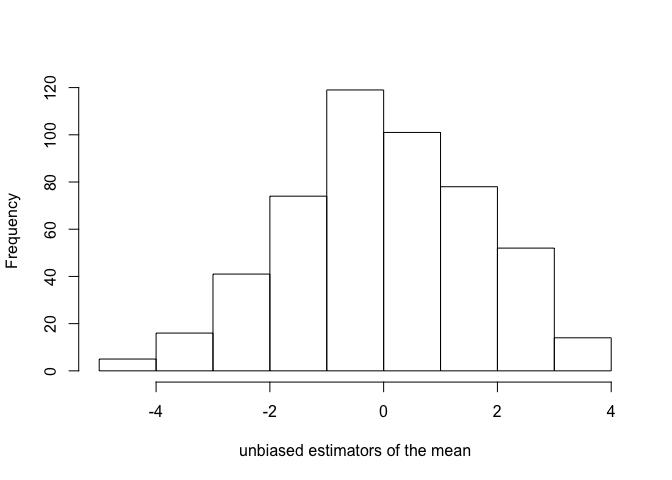
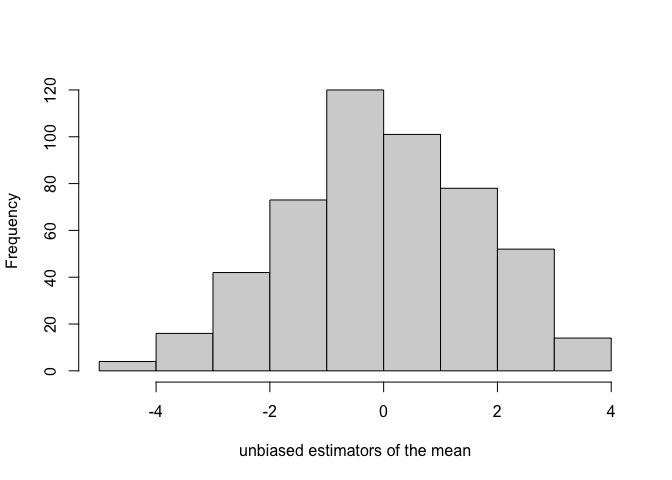
fixed weight in bias cancellation

diff --git a/src/c_chains_to_measure.cpp b/src/c_chains_to_measure.cpp
@@ -1,4 +1,5 @@
 #include <Rcpp.h>
+#include <math.h>
 using namespace Rcpp;
 
 // This function takes coupled chains, containing chains X (samples1) and Y (samples2)
@@ -18,15 +19,9 @@ using namespace Rcpp;
 // X_0,..., X_{max(m,tau)}  (of length 1+max(m, tau))
 // Y_0,..., Y_{max(m,tau)-lag} (of length 1+max(m, tau) - lag)
 
-// The signed measure approximation, for a lag of one is given by
+// The signed measure approximation, for a general lag, is given by
 // (MCMC):             (m-k+1)^{-1} \sum_{t=k}^m delta_{X_t}
-// (bias correction):  (m-k+1)^{-1} \sum_{t=k+1}^{tau-1} min(m-k+1, t-k) {delta_{X_t} - delta_{Y_{t-1}}}
-
-// For a general lag, it is given by
-// (MCMC):             (m-k+1)^{-1} \sum_{t=k}^m delta_{X_t}
-// (bias correction):  (m-k+1)^{-1} \sum_{t=k+lag}^{tau-1} min(m-k+1, ceil((t-k)/lag)) {delta_{X_t} - delta_{Y_{t-lag}}}
-
-// sanity check: it should be the same if lag = 1
+// (bias correction):  (m-k+1)^{-1} \sum_{t=k+lag}^{tau-1} (floor((t-k) / lag) - ceil(max(lag, t-m)/lag) + 1) {delta_{X_t} - delta_{Y_{t-lag}}}
 
 // Thus total number of atoms is
 // m-k+1                    from the MCMC approximation
@@ -73,10 +68,11 @@ List c_chains_to_measure_as_list_(const List & c_chains, int k, int m){
     for (int time = k+lag; time <= meetingtime-1; time ++){
       atoms(index,_) = samples1(time,_);
       atoms(index+1,_) = samples2(time-lag,_);
-      weights(index) = ceil(((double) time - k)/((double) lag));
-      if ((m - k + 1) < weights(index)){
-        weights(index) = m - k + 1;
-      }
+      // weights(index) = ceil(((double) time - k)/((double) lag));
+      //if ((m - k + 1) < weights(index)){
+      //  weights(index) = m - k + 1;
+      //}
+      weights(index) = floor(((double) time - k) / (double) lag) - ceil(std::max<double>(lag, (double) time - m)/ (double) lag) + 1.;
       weights(index) = weights(index) * eqweight;
       weights(index+1) = - weights(index);
       whichpart(index) = false;

diff --git a/src/estimator_bin.cpp b/src/estimator_bin.cpp
@@ -23,11 +23,12 @@ double estimator_bin_(List c_chains, int component, double lower, double upper, 
     double increment = 0.;
     for (int time = k+lag; time <= meetingtime-1; time ++){
       increment = 0.;
+      coefficient = floor(((double) time - k) / (double) lag) - ceil(std::max<double>(lag, (double) time - m)/ (double) lag) + 1.;
       // compute min between m - k + 1 and ceiling ((t - k) / L)
-      coefficient = ceil(((double) time - k)/((double) lag));
-      if ((m - k + 1) < coefficient){
-        coefficient = m - k + 1.;
-      }
+      // coefficient = ceil(((double) time - k)/((double) lag));
+      // if ((m - k + 1) < coefficient){
+      //   coefficient = m - k + 1.;
+      // }
       if (samples1(time,component-1) > lower && samples1(time,component-1) < upper){
         increment += coefficient;
       }

diff --git a/src/RcppExports.cpp b/src/RcppExports.cpp
@@ -6,6 +6,11 @@
 
 using namespace Rcpp;
 
+#ifdef RCPP_USE_GLOBAL_ROSTREAM
+Rcpp::Rostream<true>&  Rcpp::Rcout = Rcpp::Rcpp_cout_get();
+Rcpp::Rostream<false>& Rcpp::Rcerr = Rcpp::Rcpp_cerr_get();
+#endif
+
 // blassoconditional
 List blassoconditional(const Eigen::VectorXd& Y, const Eigen::MatrixXd& X, const Eigen::VectorXd& XtY, const Eigen::MatrixXd& XtX, const NumericVector tau2, const double sigma2);
 RcppExport SEXP _unbiasedmcmc_blassoconditional(SEXP YSEXP, SEXP XSEXP, SEXP XtYSEXP, SEXP XtXSEXP, SEXP tau2SEXP, SEXP sigma2SEXP) {

diff --git a/README.md b/README.md
@@ -7,9 +7,9 @@ Jacob, John O’Leary and Yves F Atchade, available at
 <https://arxiv.org/abs/1708.03625>.
 
 This is not a general-purpose statistical software, but a collection of
-scripts intended to reproduce figures and tables. Use at your own
-risk\!\! We hope these scripts will be useful for people interested to
-learn how the method works.
+scripts intended to reproduce figures and tables. Use at your own risk!!
+We hope these scripts will be useful for people interested to learn how
+the method works.
 
 The folder inst/reproduce/ contains the scripts to reproduce the
 figures. Each sub-folder has a “run all” script to run all the scripts
@@ -71,48 +71,46 @@ scripts dealing with the Polya-Gamma sampler do.
 
 The following code
 
-  - defines a target distribution as a mixture of univariate Normal
+-   defines a target distribution as a mixture of univariate Normal
     distributions, via its probability density function, returning
     log-values,
 
-  - defines an initial distribution “rinit”, a Markov kernel
-    “single\_kernel”, and a coupled Markov kernel “coupled\_kernel”,
+-   defines an initial distribution “rinit”, a Markov kernel
+    “single_kernel”, and a coupled Markov kernel “coupled_kernel”,
     defined through their sampling mechanisms,
 
-  - draws meeting times and shows a histogram of them,
+-   draws meeting times and shows a histogram of them,
 
-  - draws more coupled chains, with a certain “lag” and time horizon
+-   draws more coupled chains, with a certain “lag” and time horizon
     “m”, and use them to produce an approximation of the target
     distribution.
-
-<!-- end list -->
 
 ``` r
 library(unbiasedmcmc)
 set.seed(1)
 # target distribution
-target <- function(x){
-  evals <- log(0.5) + dnorm(x, mean = c(-4, 4), sd = 1, log = TRUE)
-  return(max(evals) + log(sum(exp(evals - max(evals)))))
+target <- function(x) {
+    evals <- log(0.5) + dnorm(x, mean = c(-4, 4), sd = 1, log = TRUE)
+    return(max(evals) + log(sum(exp(evals - max(evals)))))
 }
-# get MH kernels with proposal variance equal to 4 
+# get MH kernels with proposal variance equal to 4
 kernels <- get_mh_kernels(target, 4)
 # Markov kernel of the chain
 single_kernel <- kernels$single_kernel
 # Markov kernel of the coupled chain
 coupled_kernel <- kernels$coupled_kernel
 # initial distribution, towards the right-most mode of the target
-rinit <- function(){
-  chain_state <- rnorm(1, mean = 3, sd = 2)
-  current_pdf <- target(chain_state)
-  return(list(chain_state = chain_state, current_pdf = current_pdf))
+rinit <- function() {
+    chain_state <- rnorm(1, mean = 3, sd = 2)
+    current_pdf <- target(chain_state)
+    return(list(chain_state = chain_state, current_pdf = current_pdf))
 }
 
 # draw meeting times
 nrep <- 500
 meetingtimes <- rep(0, nrep)
-for (irep in 1:nrep){
-  meetingtimes[irep] <- sample_meetingtime(single_kernel, coupled_kernel, rinit)$meetingtime
+for (irep in 1:nrep) {
+    meetingtimes[irep] <- sample_meetingtime(single_kernel, coupled_kernel, rinit)$meetingtime
 }
 # plot histogram of meeting times
 hist(meetingtimes, xlab = "meeting time", main = "")
@@ -123,22 +121,25 @@ hist(meetingtimes, xlab = "meeting time", main = "")
 ``` r
 # now run coupled chain, with lag of 500, time horizon m = 2000
 coupledchains <- list()
-for (irep in 1:nrep){
-  coupledchains[[irep]] <- sample_coupled_chains(single_kernel, coupled_kernel, rinit, m = 2000, lag = 500)
+for (irep in 1:nrep) {
+    coupledchains[[irep]] <- sample_coupled_chains(single_kernel, coupled_kernel,
+        rinit, m = 2000, lag = 500)
 }
 
 # approximate target via histogram, with k = 500, m = 2000
 hist1 <- histogram_c_chains(coupledchains, 1, k = 500, m = 2000, nclass = 100)
 # plot approximation in black segments
-plot(x = hist1$mids, y = hist1$proportions / hist1$width, type = "l", xlab = "x", ylab = "density")
-segments(x0 = hist1$mids, x1 = hist1$mids, y0 = rep(0, length(hist1$proportions)), y1 = hist1$proportions / hist1$width)
-curve(sapply(x, function(v) exp(target(v))), add = TRUE, col = "orange", lty = 1, lwd = 2)
+plot(x = hist1$mids, y = hist1$proportions/hist1$width, type = "l", xlab = "x", ylab = "density")
+segments(x0 = hist1$mids, x1 = hist1$mids, y0 = rep(0, length(hist1$proportions)),
+    y1 = hist1$proportions/hist1$width)
+curve(sapply(x, function(v) exp(target(v))), add = TRUE, col = "orange", lty = 1,
+    lwd = 2)
 ```
 
 ![](README_files/figure-gfm/usage-2.png)<!-- -->
 
 ``` r
-# average cost per estimator, in units of "calls to Markov kernels"
+# average cost per estimator, in units of 'calls to Markov kernels'
 mean(sapply(coupledchains, function(x) x$cost))
 ```
 
@@ -155,17 +156,19 @@ chain, and construct a 95% confidence interval, based on a central limit
 theorem as the number of independent estimators goes to infinity.
 
 ``` r
-estimators <- sapply(coupledchains, function(c) H_bar(c, h = function(x) x, k = 500, m = 2000))
+estimators <- sapply(coupledchains, function(c) H_bar(c, h = function(x) x, k = 500,
+    m = 2000))
 hist(estimators, xlab = "unbiased estimators of the mean", main = "")
 ```
 
 ![](README_files/figure-gfm/estimators-1.png)<!-- -->
 
 ``` r
-cat("95% confidence interval for the mean:", mean(estimators), "+/-", 1.96 * sd(estimators)/sqrt(length(estimators)), "\n")
+cat("95% confidence interval for the mean:", mean(estimators), "+/-", 1.96 * sd(estimators)/sqrt(length(estimators)),
+    "\n")
 ```
 
-    ## 95% confidence interval for the mean: 5.494271e-05 +/- 0.1466475
+    ## 95% confidence interval for the mean: 0.005471002 +/- 0.1458675
 
 Compared to usual MCMC estimators justified as the number of iterations
 goes to infinity, the proposed estimators are unbiased, and thus their
